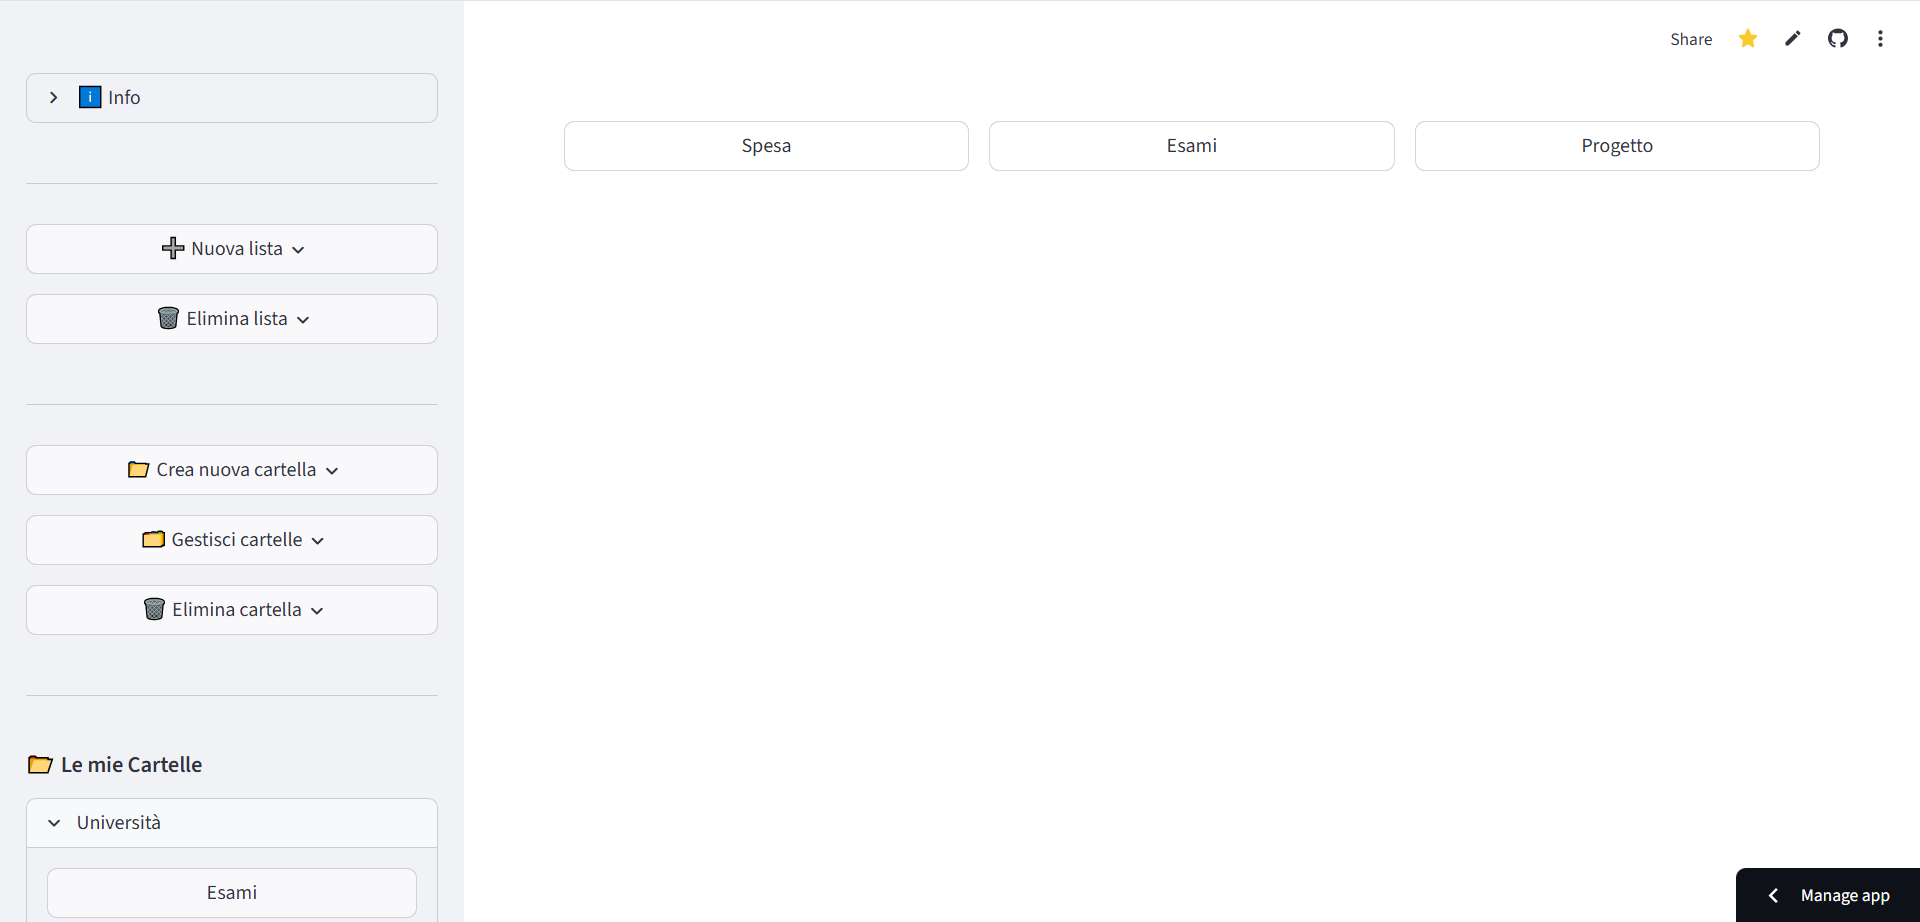
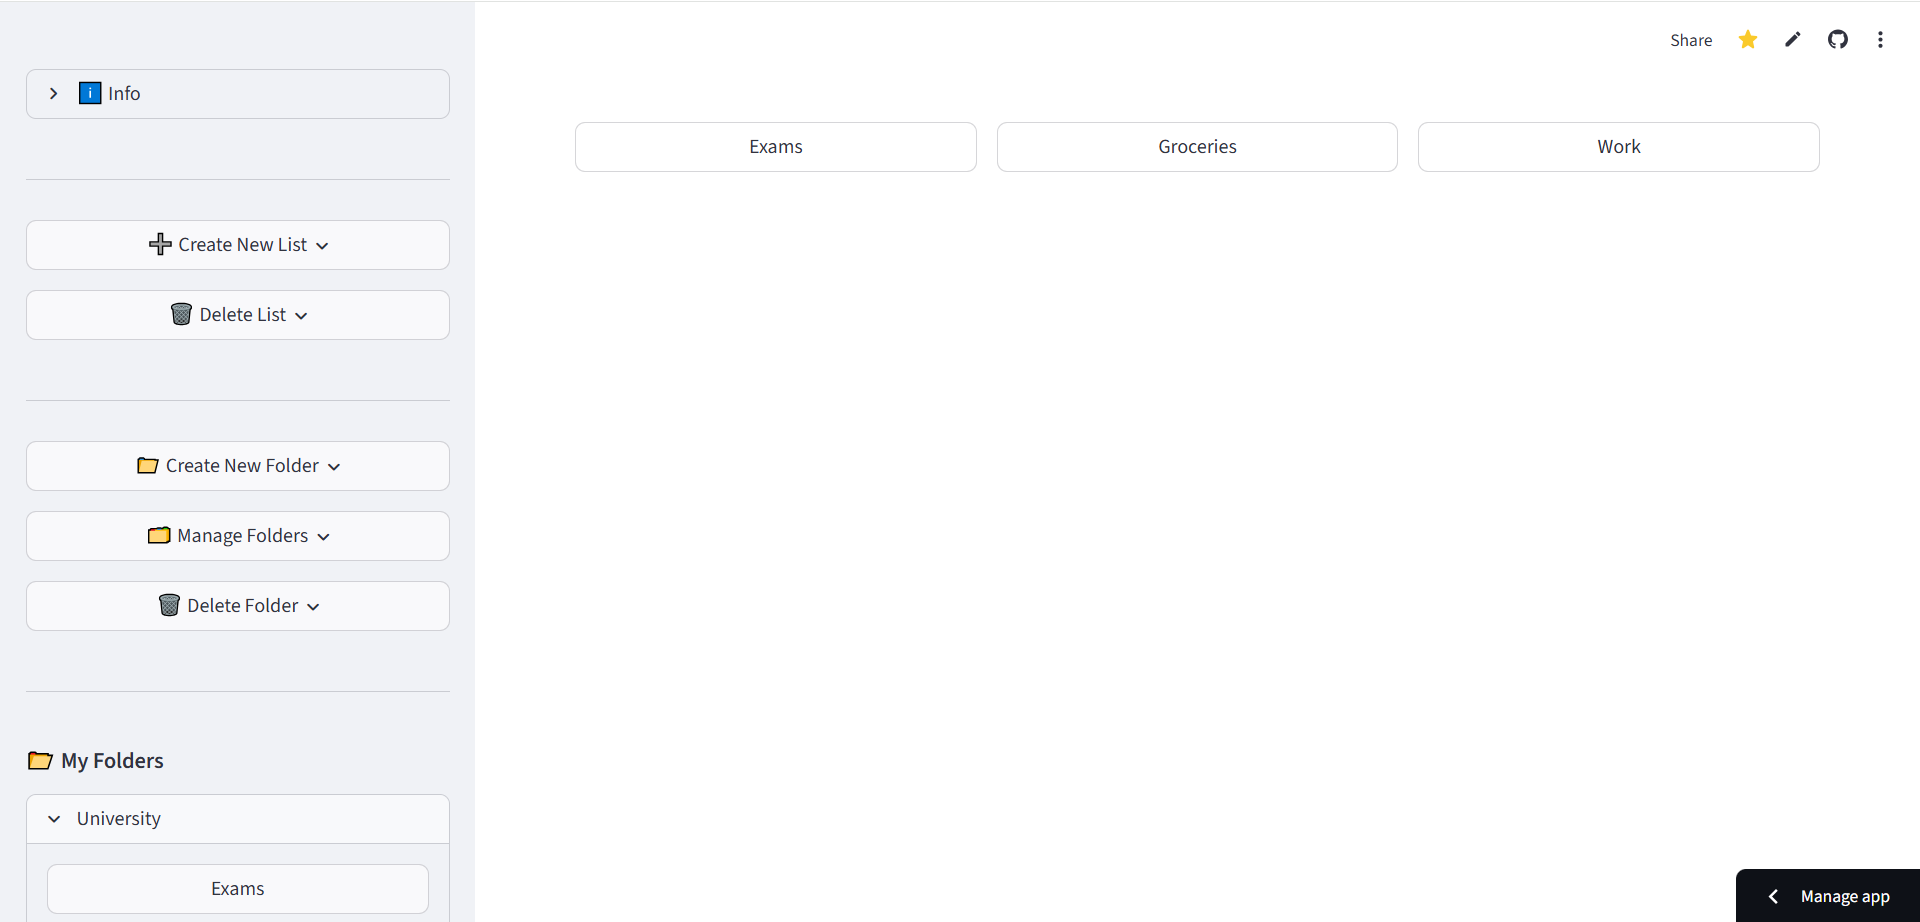
chore: updated README and Showcase images

diff --git a/README.md b/README.md
@@ -2,9 +2,14 @@
 
 ## App for Easier Task Managment
 
+---
+
 ## 🌐 Live Demo
 
 Try the Live Demo at: **[To-Do-List](https://to-do-list-unict.streamlit.app/)**
+Make sure to give a ⭐ if you like this project and want to support us!
+
+---
 
 ## 🔍 How the app works
 
@@ -33,6 +38,8 @@ Opens when a TO-DO List is selected. In the List-Page it's possible to do specif
 - **Complete Task**: Marks the selected task as completed.
 - **Label**: Adds a label to the selected element to simbolize its priority compared to other elements.
 - **Edit Style**: Allows to add Bold/Italics/Text-Color to the selected element.
+
+---
 
 ## 🔗 How the Project is Structured
 
@@ -92,6 +99,8 @@ Opens when a TO-DO List is selected. In the List-Page it's possible to do specif
     └── 🔒 requirements.txt                 # App Requirements
 ```
 
+---
+
 ## ⬇ Installing App Dependencies
 
 ### Pre-requirements
@@ -126,6 +135,8 @@ pip install streamlit
 ```bash
 streamlit run app.py
 ```
+
+---
 
 ## 📝 Unit-Tests
 We've organized the Unit-Tests of all methods used in the app inside the **tests/** folder. To run the tests it's required: 
@@ -164,6 +175,14 @@ pytest --cov=tests/test_elements.py
 ```
 
 🏆 *The Project has a code coverage of: **~98%** !*
+
+---
+
+## 💬 Feedback
+
+For any tips of how to improve the app or issues needed to be fixed, please reach to us so we can address them as soon as possible! We'll keep improving it and adding new features in due time. 🚀
+
+---
 
 ## 👨💻 Developers
 
